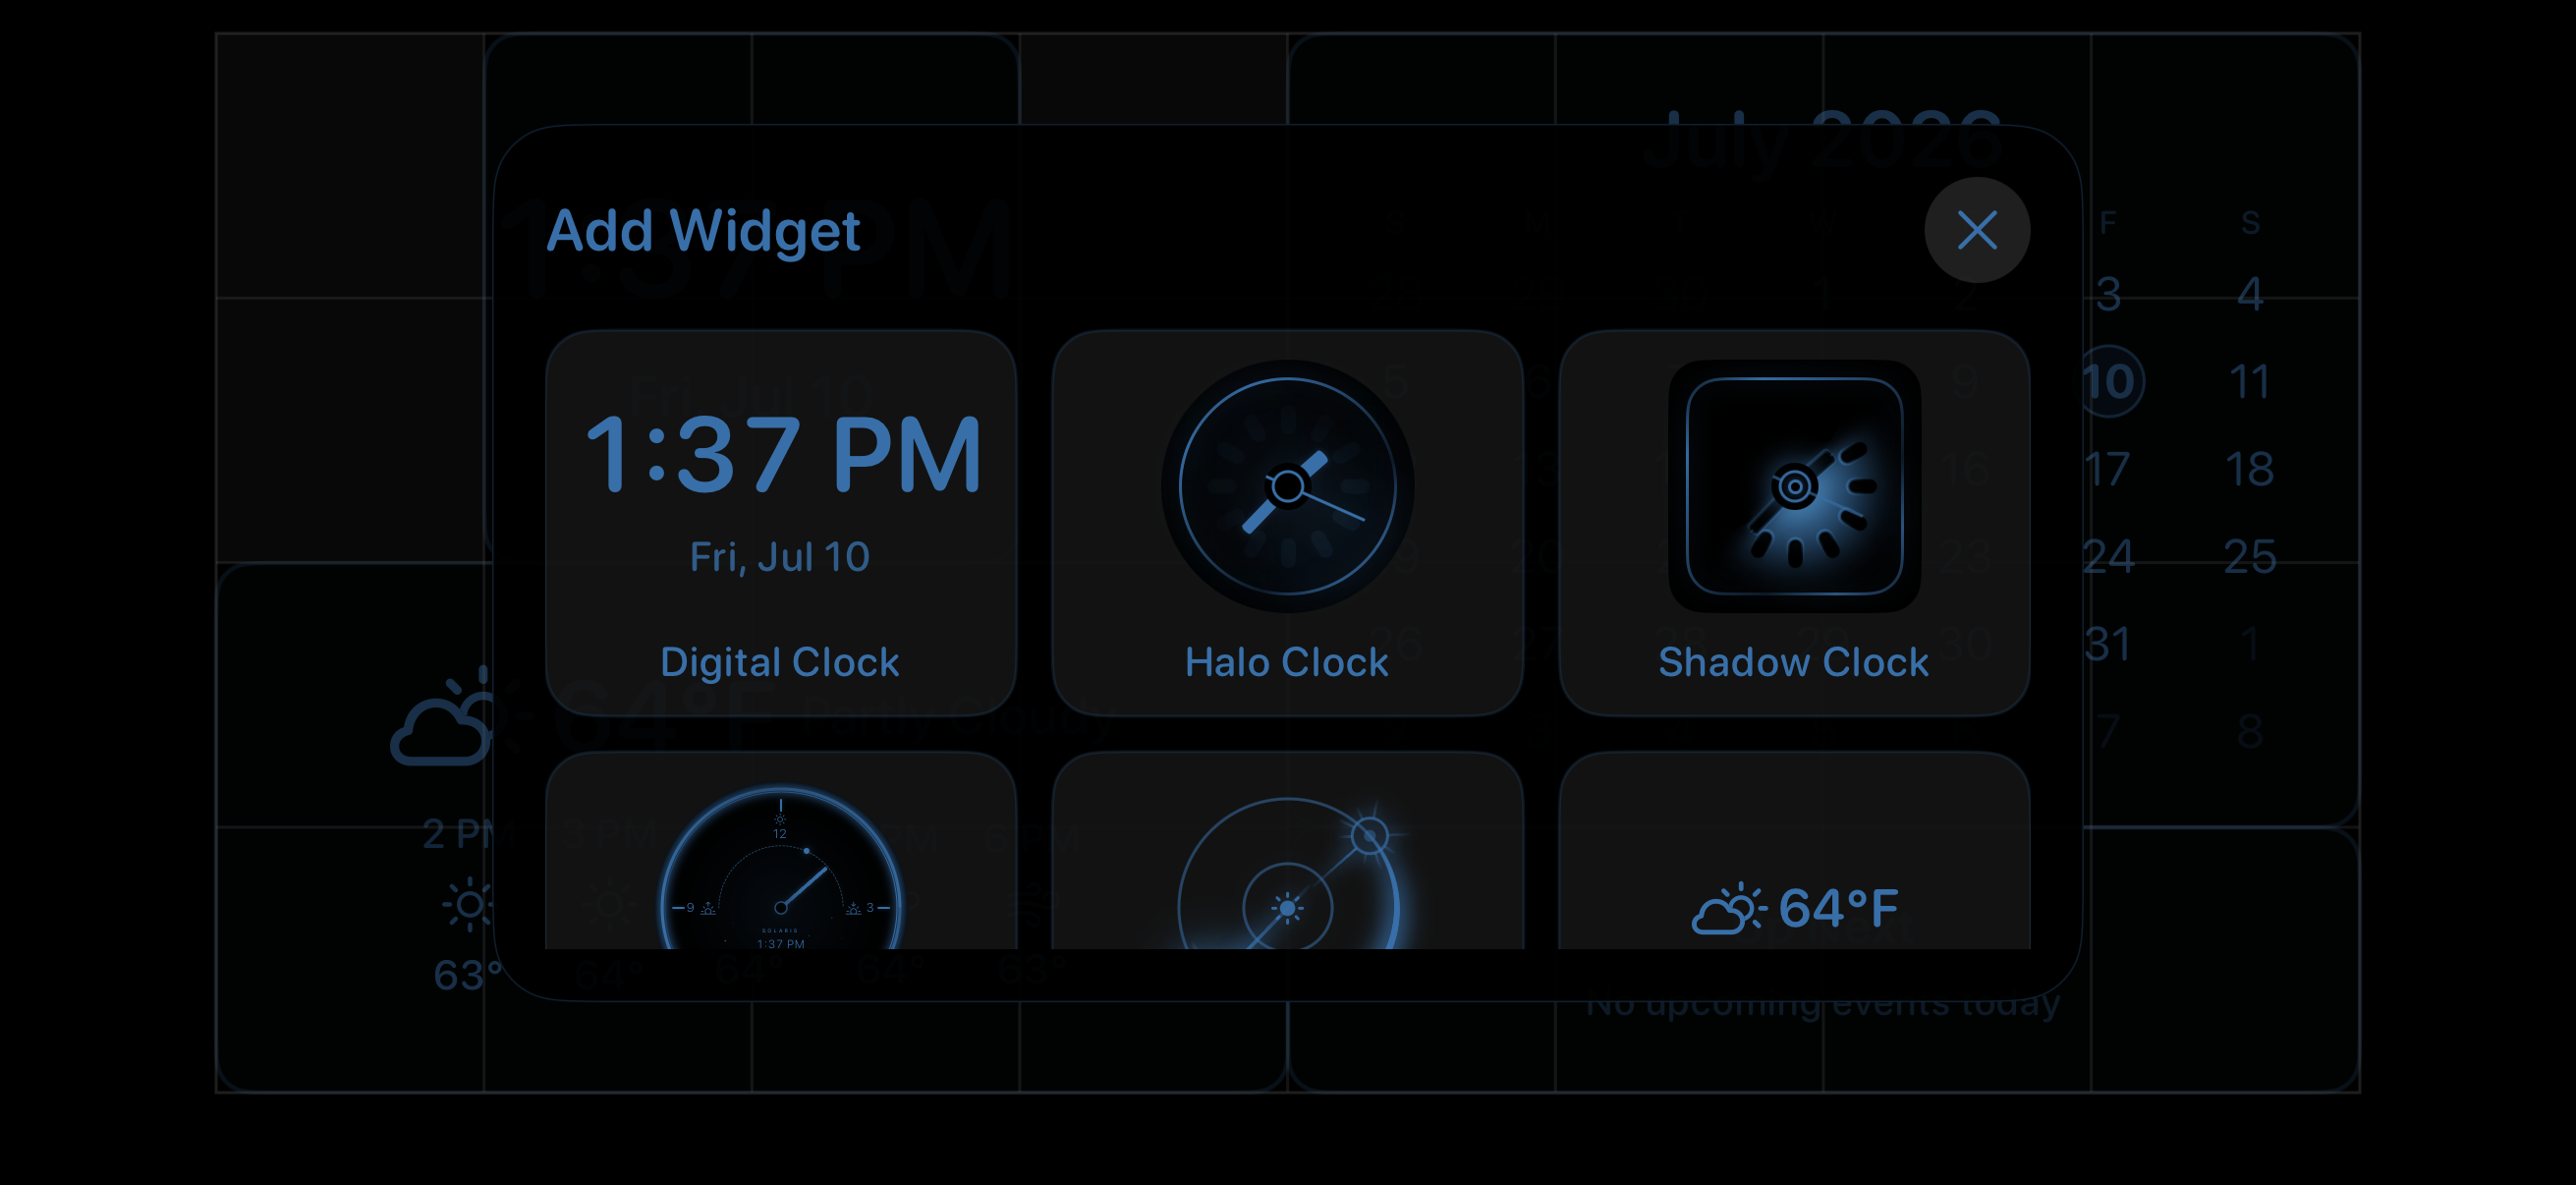
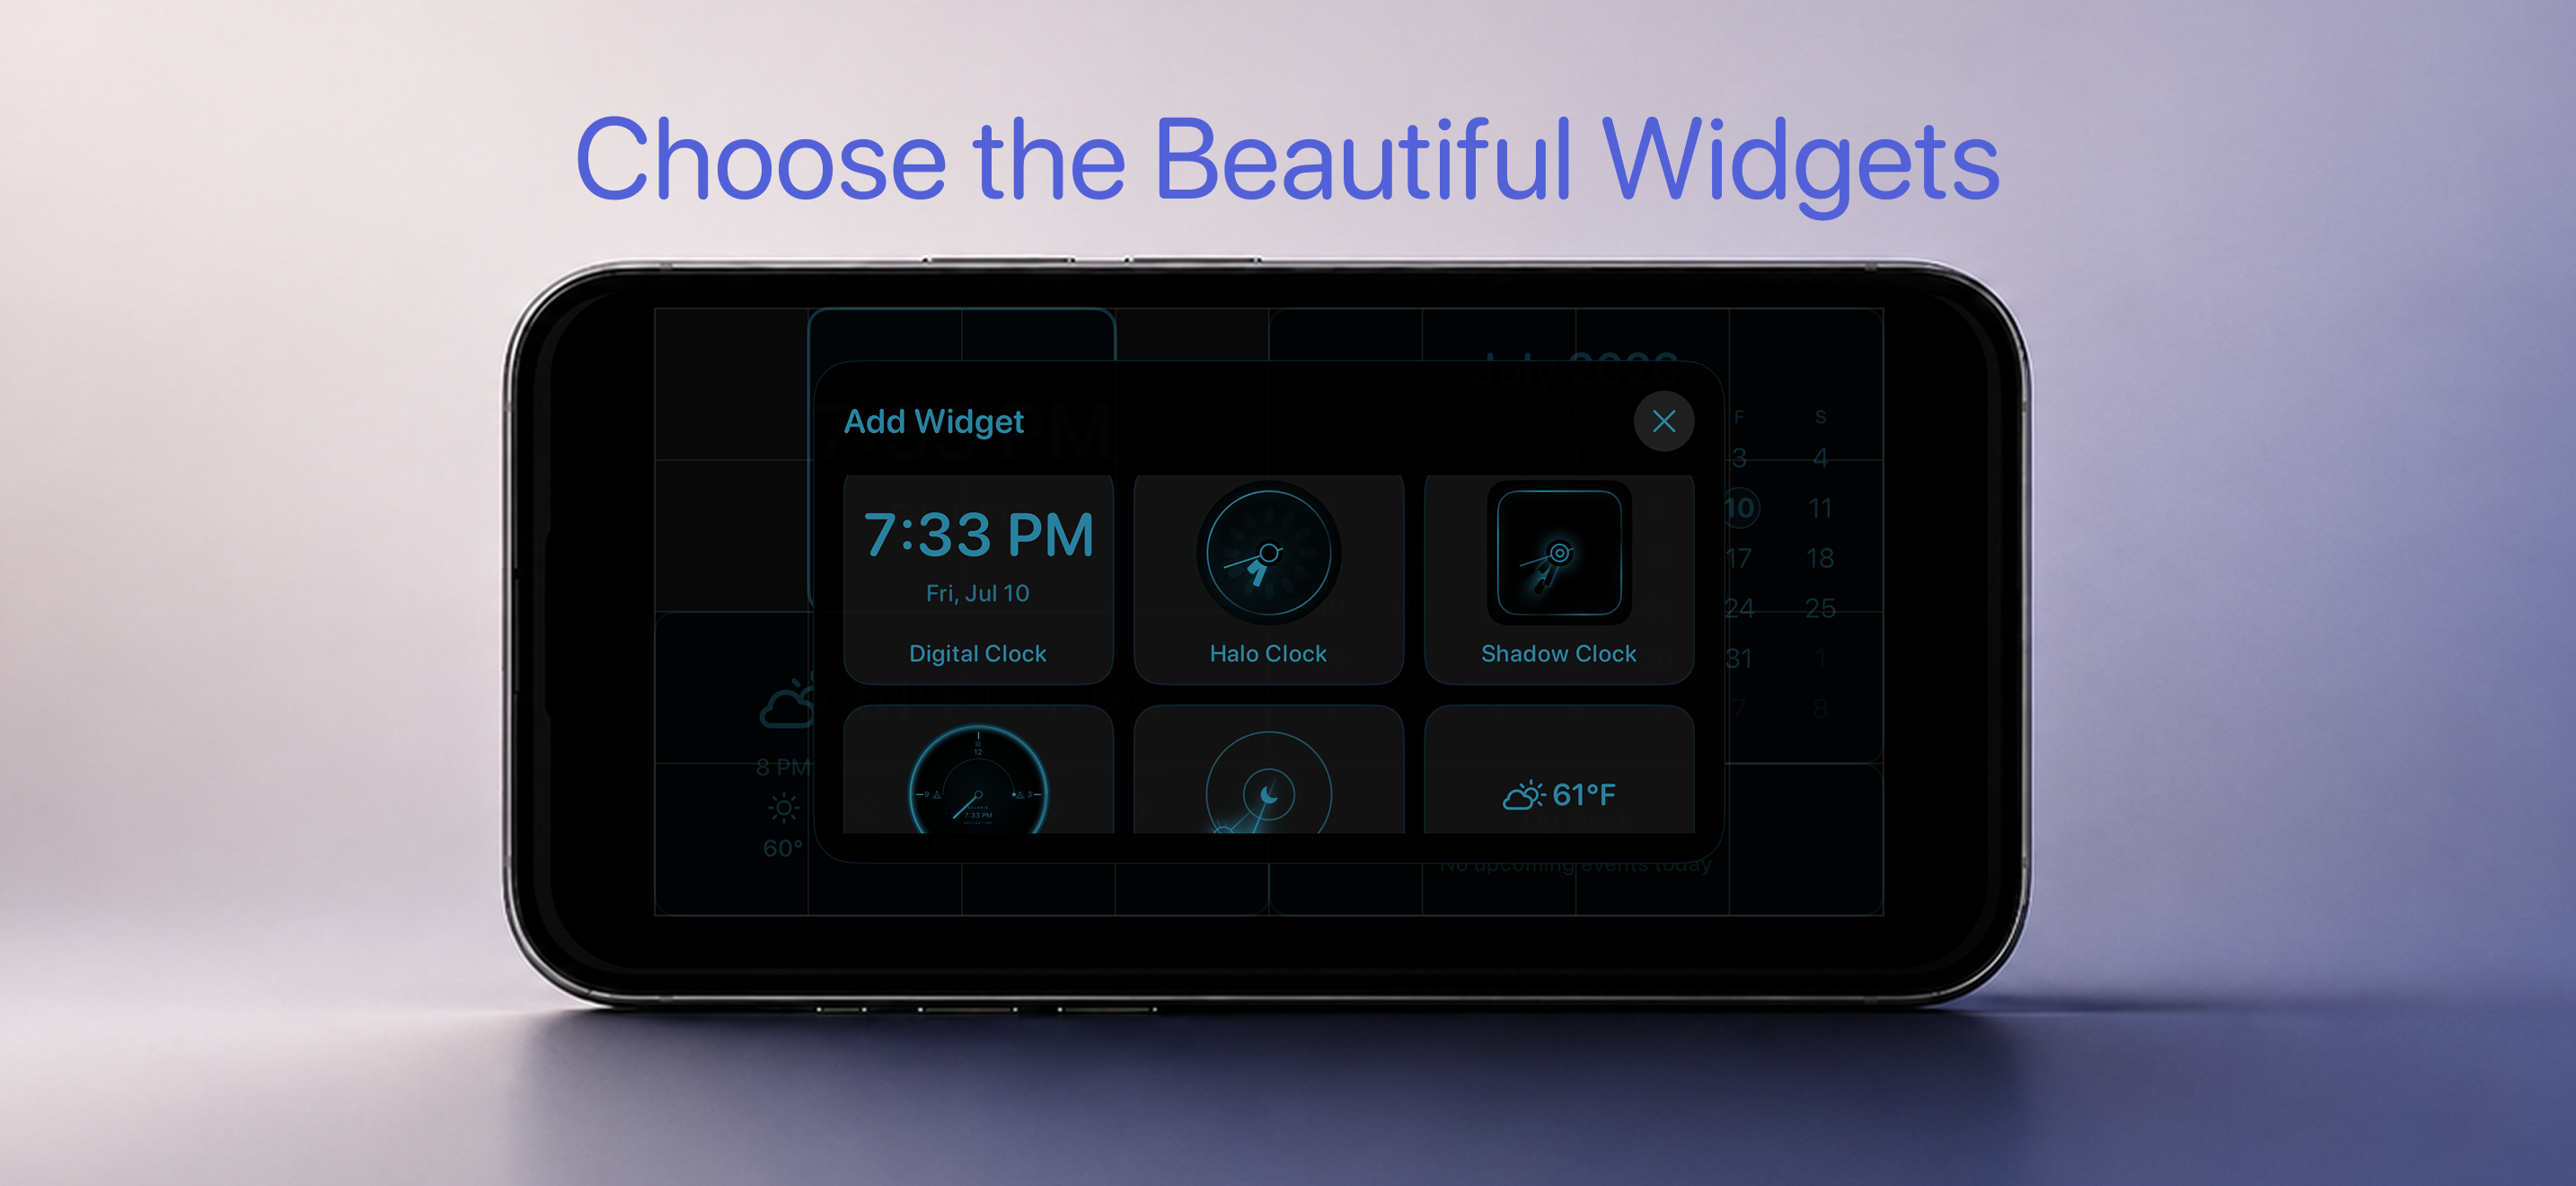
Update the images and font sizes

diff --git a/styles.css b/styles.css
@@ -113,9 +113,9 @@ h3 {
 }
 
 h1 {
-  max-width: 10ch;
+  max-width: 13ch;
   margin-bottom: 24px;
-  font-size: clamp(2.65rem, 5.2vw, 4.25rem);
+  font-size: clamp(2.55rem, 4.7vw, 3.85rem);
   font-weight: 650;
 }
 
@@ -228,22 +228,24 @@ h3 {
 
 .app-actions {
   display: flex;
-  flex-wrap: wrap;
+  flex-wrap: nowrap;
   align-items: center;
-  gap: 14px 20px;
+  gap: 12px 16px;
 }
 
 .button {
   display: inline-flex;
-  min-height: 48px;
+  min-height: 42px;
   align-items: center;
   justify-content: center;
-  gap: 7px;
-  padding: 0 19px;
+  gap: 6px;
+  padding: 0 16px;
   border: 1px solid var(--accent);
   border-radius: 999px;
+  font-size: 0.94rem;
   font-weight: 680;
   text-decoration: none;
+  white-space: nowrap;
   transition: transform 160ms ease, background 160ms ease, border-color 160ms ease;
 }
 
@@ -258,7 +260,9 @@ h3 {
 
 .text-link {
   color: var(--text);
+  font-size: 0.95rem;
   font-weight: 650;
+  white-space: nowrap;
 }
 
 .app-artwork {
@@ -355,7 +359,7 @@ h3 {
   }
 
   h1 {
-    font-size: clamp(2.6rem, 13vw, 3.15rem);
+    font-size: clamp(2.35rem, 11vw, 2.9rem);
   }
 
   h2 {
@@ -406,6 +410,7 @@ h3 {
   }
 
   .app-actions {
+    flex-wrap: wrap;
     align-items: flex-start;
   }
 

diff --git a/index.html b/index.html
@@ -25,7 +25,7 @@
     <section class="hero shell" aria-labelledby="hero-title">
       <div class="hero-copy">
         <p class="eyebrow">Focused apps for everyday use</p>
-        <h1 id="hero-title">Small apps. Thoughtfully made.</h1>
+        <h1 id="hero-title">Small apps.<br>Thoughtfully made.</h1>
         <p class="hero-lede">A small collection of focused apps designed to be useful in everyday moments, with clear purpose and attention to how they feel in use.</p>
       </div>
     </section>